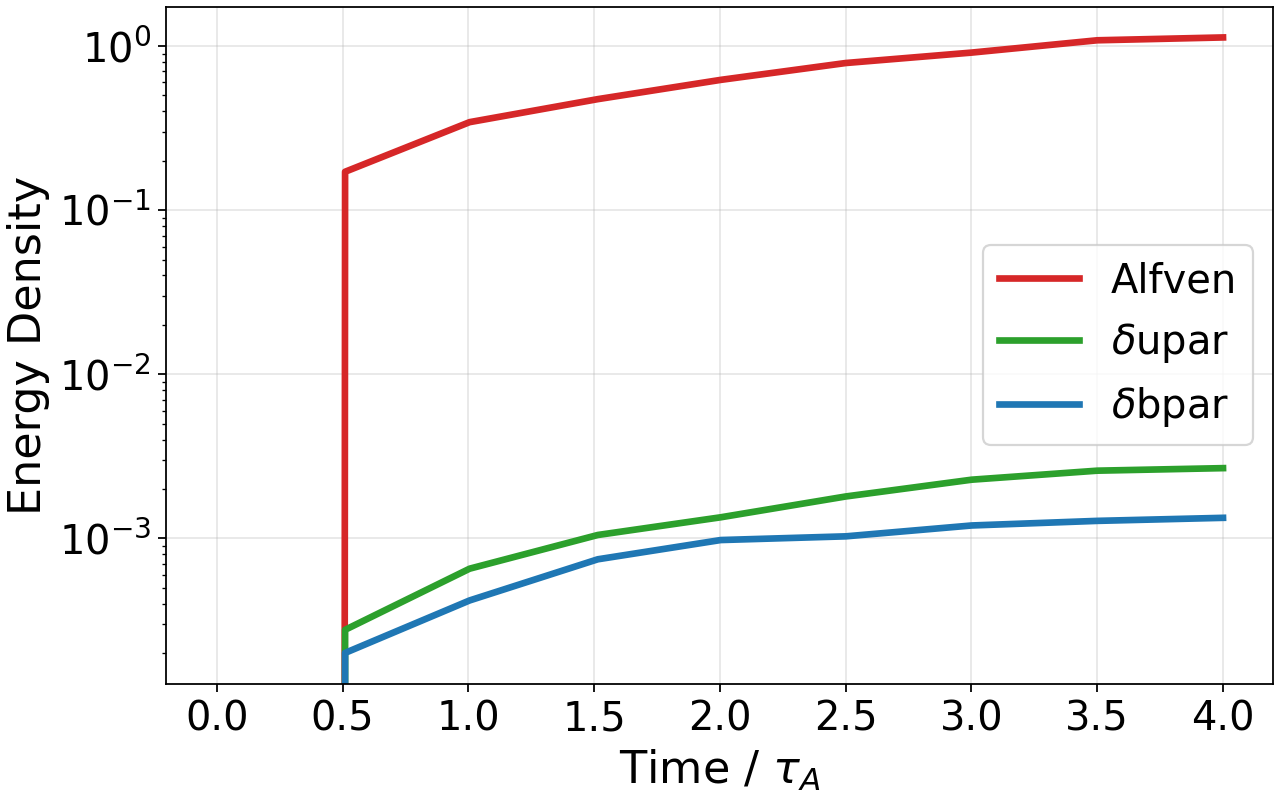
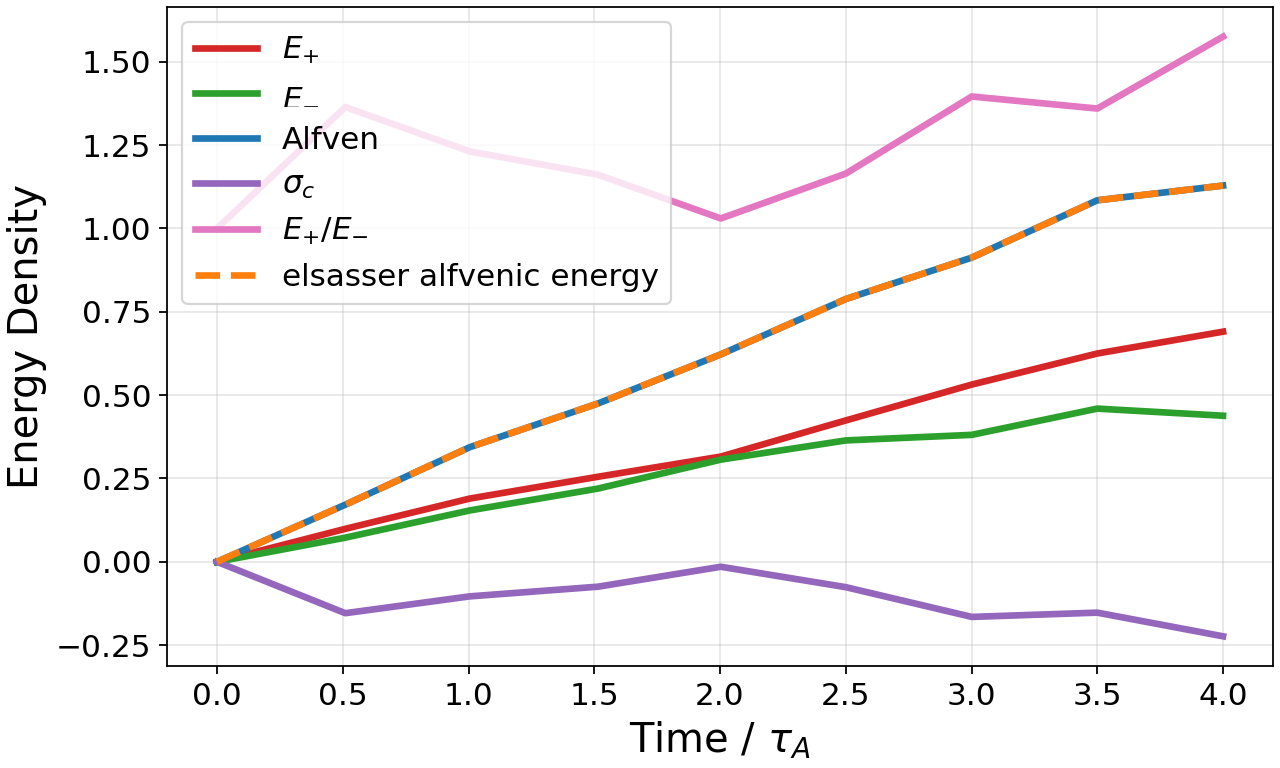
diagnostic for imbalanced

diff --git a/vis/plot_scalars_energy.py b/vis/plot_scalars_energy.py
@@ -1,0 +1,127 @@
+"""Plot scalar diagnostics saved by `rmhdgpu.run`."""
+
+from __future__ import annotations
+
+import argparse
+import csv
+from pathlib import Path
+import sys
+
+if __package__ in {None, ""}:
+    sys.path.insert(0, str(Path(__file__).resolve().parents[1]))
+
+import numpy as np
+
+from vis._matplotlib import finalize_figure, import_pyplot
+
+
+def _read_scalar_csv(path: Path) -> tuple[list[str], dict[str, np.ndarray]]:
+    with path.open("r", encoding="utf-8", newline="") as handle:
+        reader = csv.DictReader(handle)
+        if reader.fieldnames is None:
+            raise ValueError(f"Scalar diagnostics file {path} has no header row.")
+        rows = list(reader)
+
+    if not rows:
+        raise ValueError(f"Scalar diagnostics file {path} contains no data rows.")
+
+    columns: dict[str, list[float]] = {name: [] for name in reader.fieldnames}
+    for row in rows:
+        for name in reader.fieldnames:
+            columns[name].append(float(row[name]))
+    return list(reader.fieldnames), {name: np.asarray(values, dtype=np.float64) for name, values in columns.items()}
+
+
+def _default_columns(fieldnames: list[str]) -> list[str]:
+    preferred = [
+        "elsasser_energy_plus",
+        "elsasser_energy_minus",
+        "alfvenic_energy",
+        "normalized_cross_helicity",
+        "elsasser_energy_ratio",
+    ]
+    selected = [name for name in preferred if name in fieldnames]
+    if selected:
+        return selected
+    return [name for name in fieldnames if name not in {"time", "t", "step", "dt"}]
+
+
+def build_parser() -> argparse.ArgumentParser:
+    parser = argparse.ArgumentParser(description=__doc__)
+    parser.add_argument("csv_path", help="Path to scalar_diagnostics.csv.")
+    parser.add_argument(
+        "--columns",
+        nargs="*",
+        default=None,
+        help="Columns to plot. Defaults to common energy-like diagnostics when present.",
+    )
+    parser.add_argument("--output", default=None, help="Output image path. Defaults next to the CSV file.")
+    parser.add_argument("--title", default="Scalar diagnostics", help="Figure title.")
+    parser.add_argument(
+        "--log",
+        action="store_true",
+        help="Use a log y scale. Only columns that stay strictly positive are plotted in this mode.",
+    )
+    parser.add_argument(
+        "--show",
+        action="store_true",
+        help="Show the figure interactively after saving. Useful from Spyder or IPython.",
+    )
+    return parser
+
+
+def main(argv: list[str] | None = None) -> Path:
+    args = build_parser().parse_args(argv)
+    plt = import_pyplot(show=args.show)
+    csv_path = Path(args.csv_path).expanduser().resolve()
+    fieldnames, columns = _read_scalar_csv(csv_path)
+    time_key = "time" if "time" in columns else "t"
+    time = columns[time_key]
+
+    selected_columns = _default_columns(fieldnames) if args.columns is None else list(args.columns)
+    if not selected_columns:
+        raise SystemExit("No scalar columns were selected for plotting.")
+
+    unknown = [name for name in selected_columns if name not in columns]
+    if unknown:
+        raise SystemExit(f"Unknown scalar columns requested: {unknown}.")
+
+    output_path = (
+        csv_path.with_name("scalar_diagnostics.png")
+        if args.output is None
+        else Path(args.output).expanduser().resolve()
+    )
+    output_path.parent.mkdir(parents=True, exist_ok=True)
+
+    plotted_columns = selected_columns
+    if args.log:
+        plotted_columns = [name for name in selected_columns if np.all(columns[name] > 0.0)]
+        if not plotted_columns:
+            raise SystemExit("No strictly positive scalar columns were selected for --log plotting.")
+
+    fig, ax = plt.subplots(figsize=(8, 4.8), constrained_layout=True)
+    colours = ["tab:red", "tab:green", "tab:blue", "tab:purple", "tab:pink"]
+    for index, name in enumerate(plotted_columns):
+        ax.plot(time, columns[name], lw=3, label=name, color=colours[index % len(colours)])
+
+    alfvenic_energy = columns["elsasser_energy_plus"] + columns["elsasser_energy_minus"]
+    ax.plot(time, alfvenic_energy, ls="--", lw=3, label="elsasser alfvenic energy", color="tab:orange")
+
+    ax.set_xlabel(r"Time / $\tau_A$", fontsize=18)
+    ax.set_ylabel("Energy Density", fontsize=18)
+    ax.tick_params(axis="both", labelsize=14)
+    #ax.set_title("Scalar Diagnostics")
+    #if args.log:
+    #ax.set_yscale("log")
+    handles, labels = ax.get_legend_handles_labels()
+    label_map = {"alfvenic_energy": "Alfven", "elsasser_energy_plus": r"$E_{+}$", "elsasser_energy_minus": r"$E_{-}$", "normalized_cross_helicity": r"$\sigma_c$", "elsasser_energy_ratio": r"$E_{+}/E_{-}$"}
+    new_labels = [label_map.get(l, l) for l in labels]
+    ax.grid(True, alpha=0.3)
+    ax.legend(handles, new_labels,fontsize=14)
+
+    finalize_figure(fig, output_path=output_path, show=args.show, plt=plt)
+    return output_path
+
+
+if __name__ == "__main__":
+    main()

diff --git a/rmhdgpu/diagnostics/alfvenic.py b/rmhdgpu/diagnostics/alfvenic.py
@@ -193,7 +193,7 @@ def elsasser_energies(
         backend_obj,
     )
     energy_minus = modal_average(
-        0.25 * grid.kperp2 * xp.abs(zeta_minus_hat) ** 2,
+        0.25 * grid.kperp2 * xp.abs(zeta_minus_hat) ** 2, #removed abs
         grid,
         backend_obj,
     )
